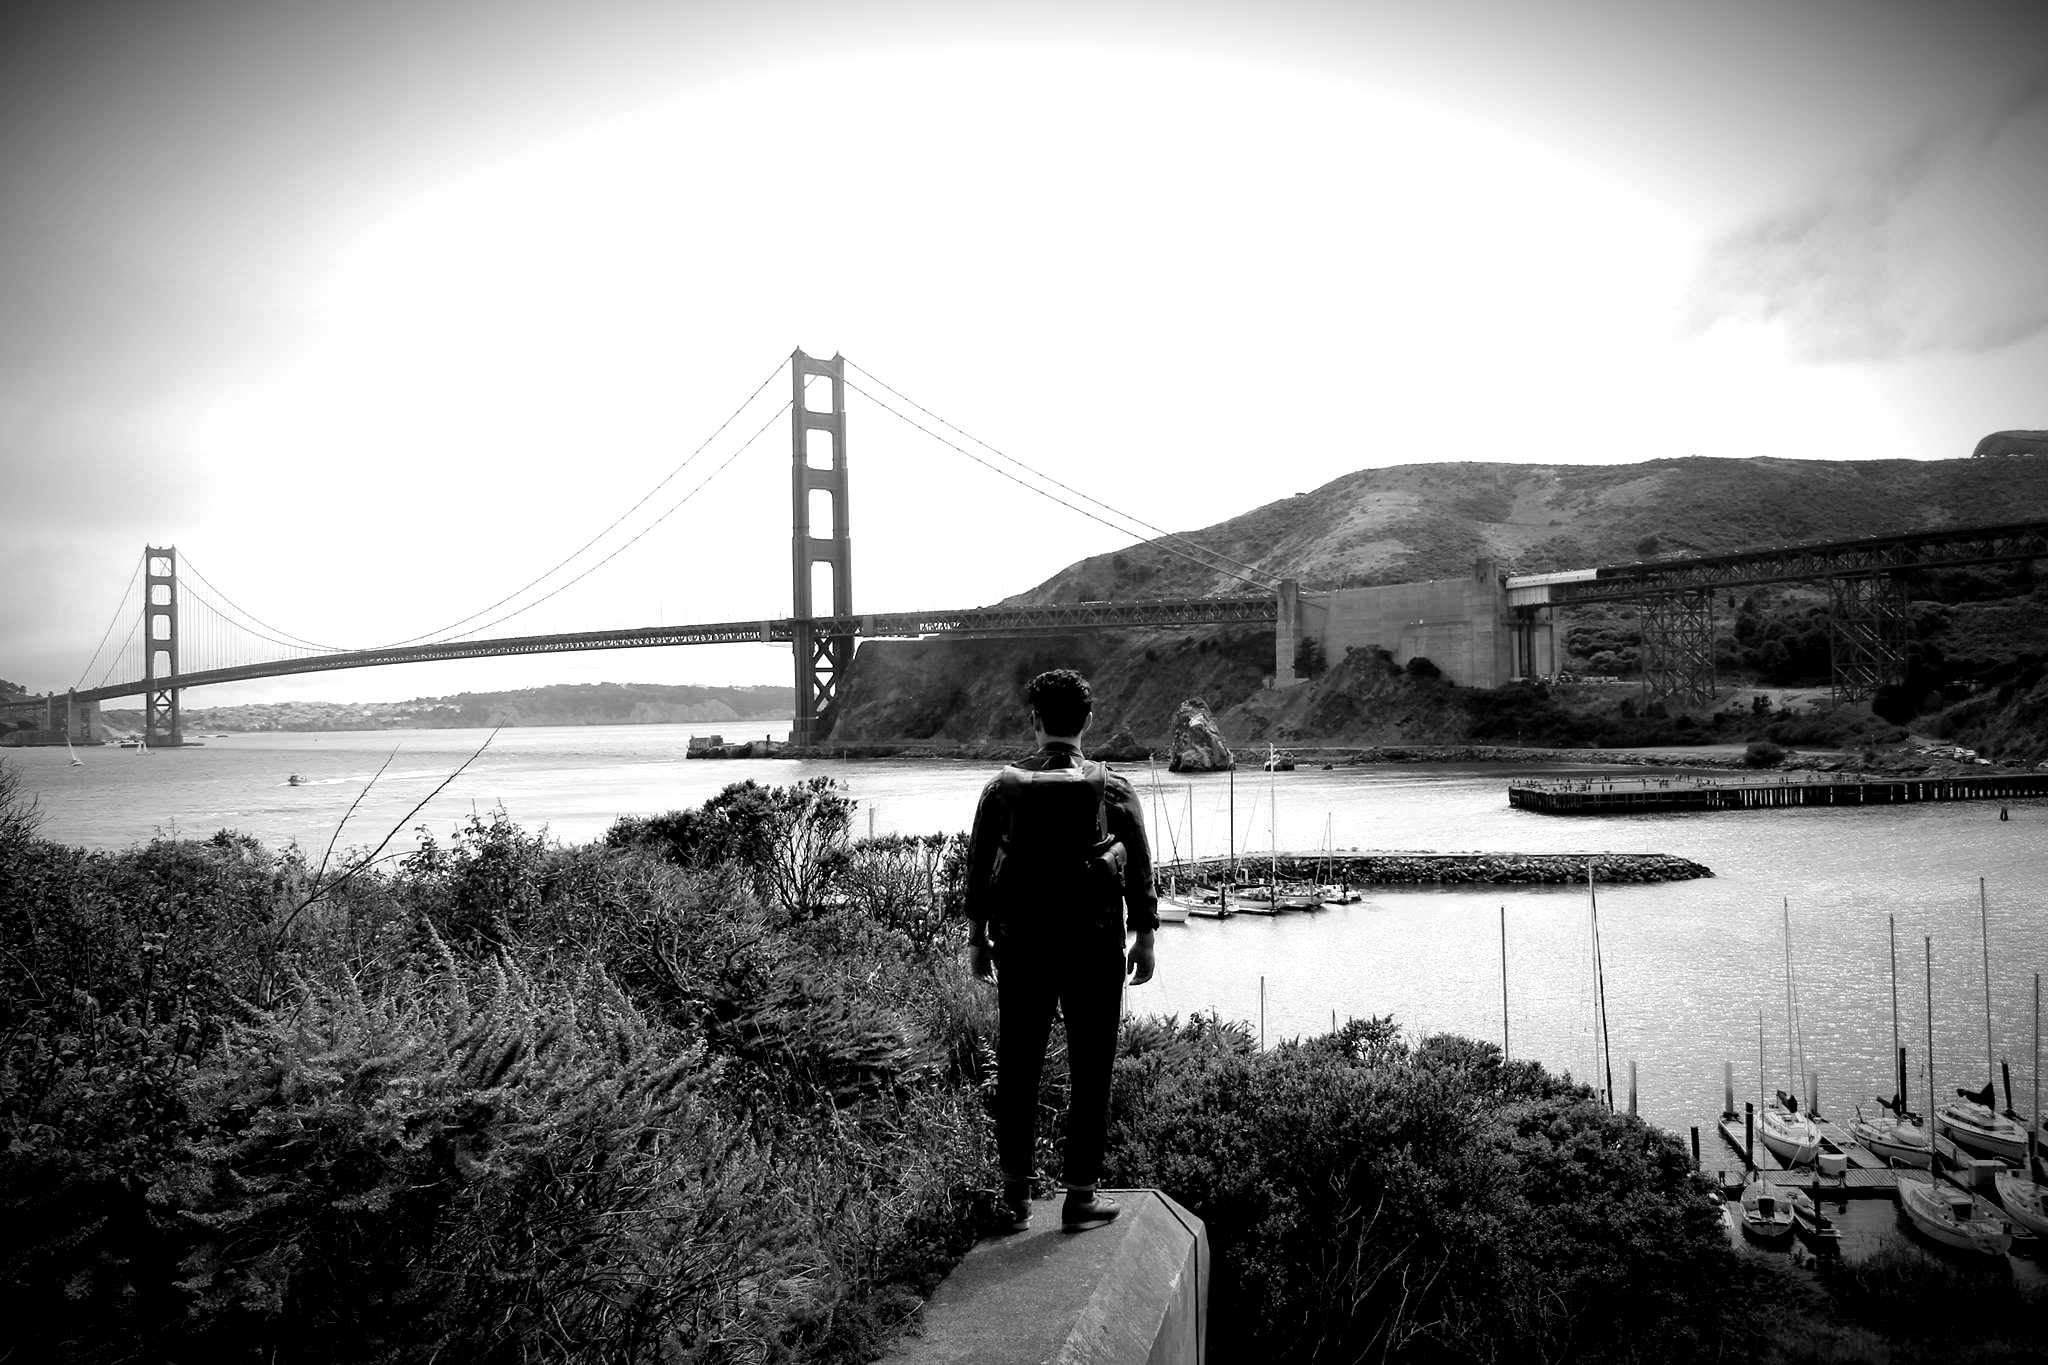
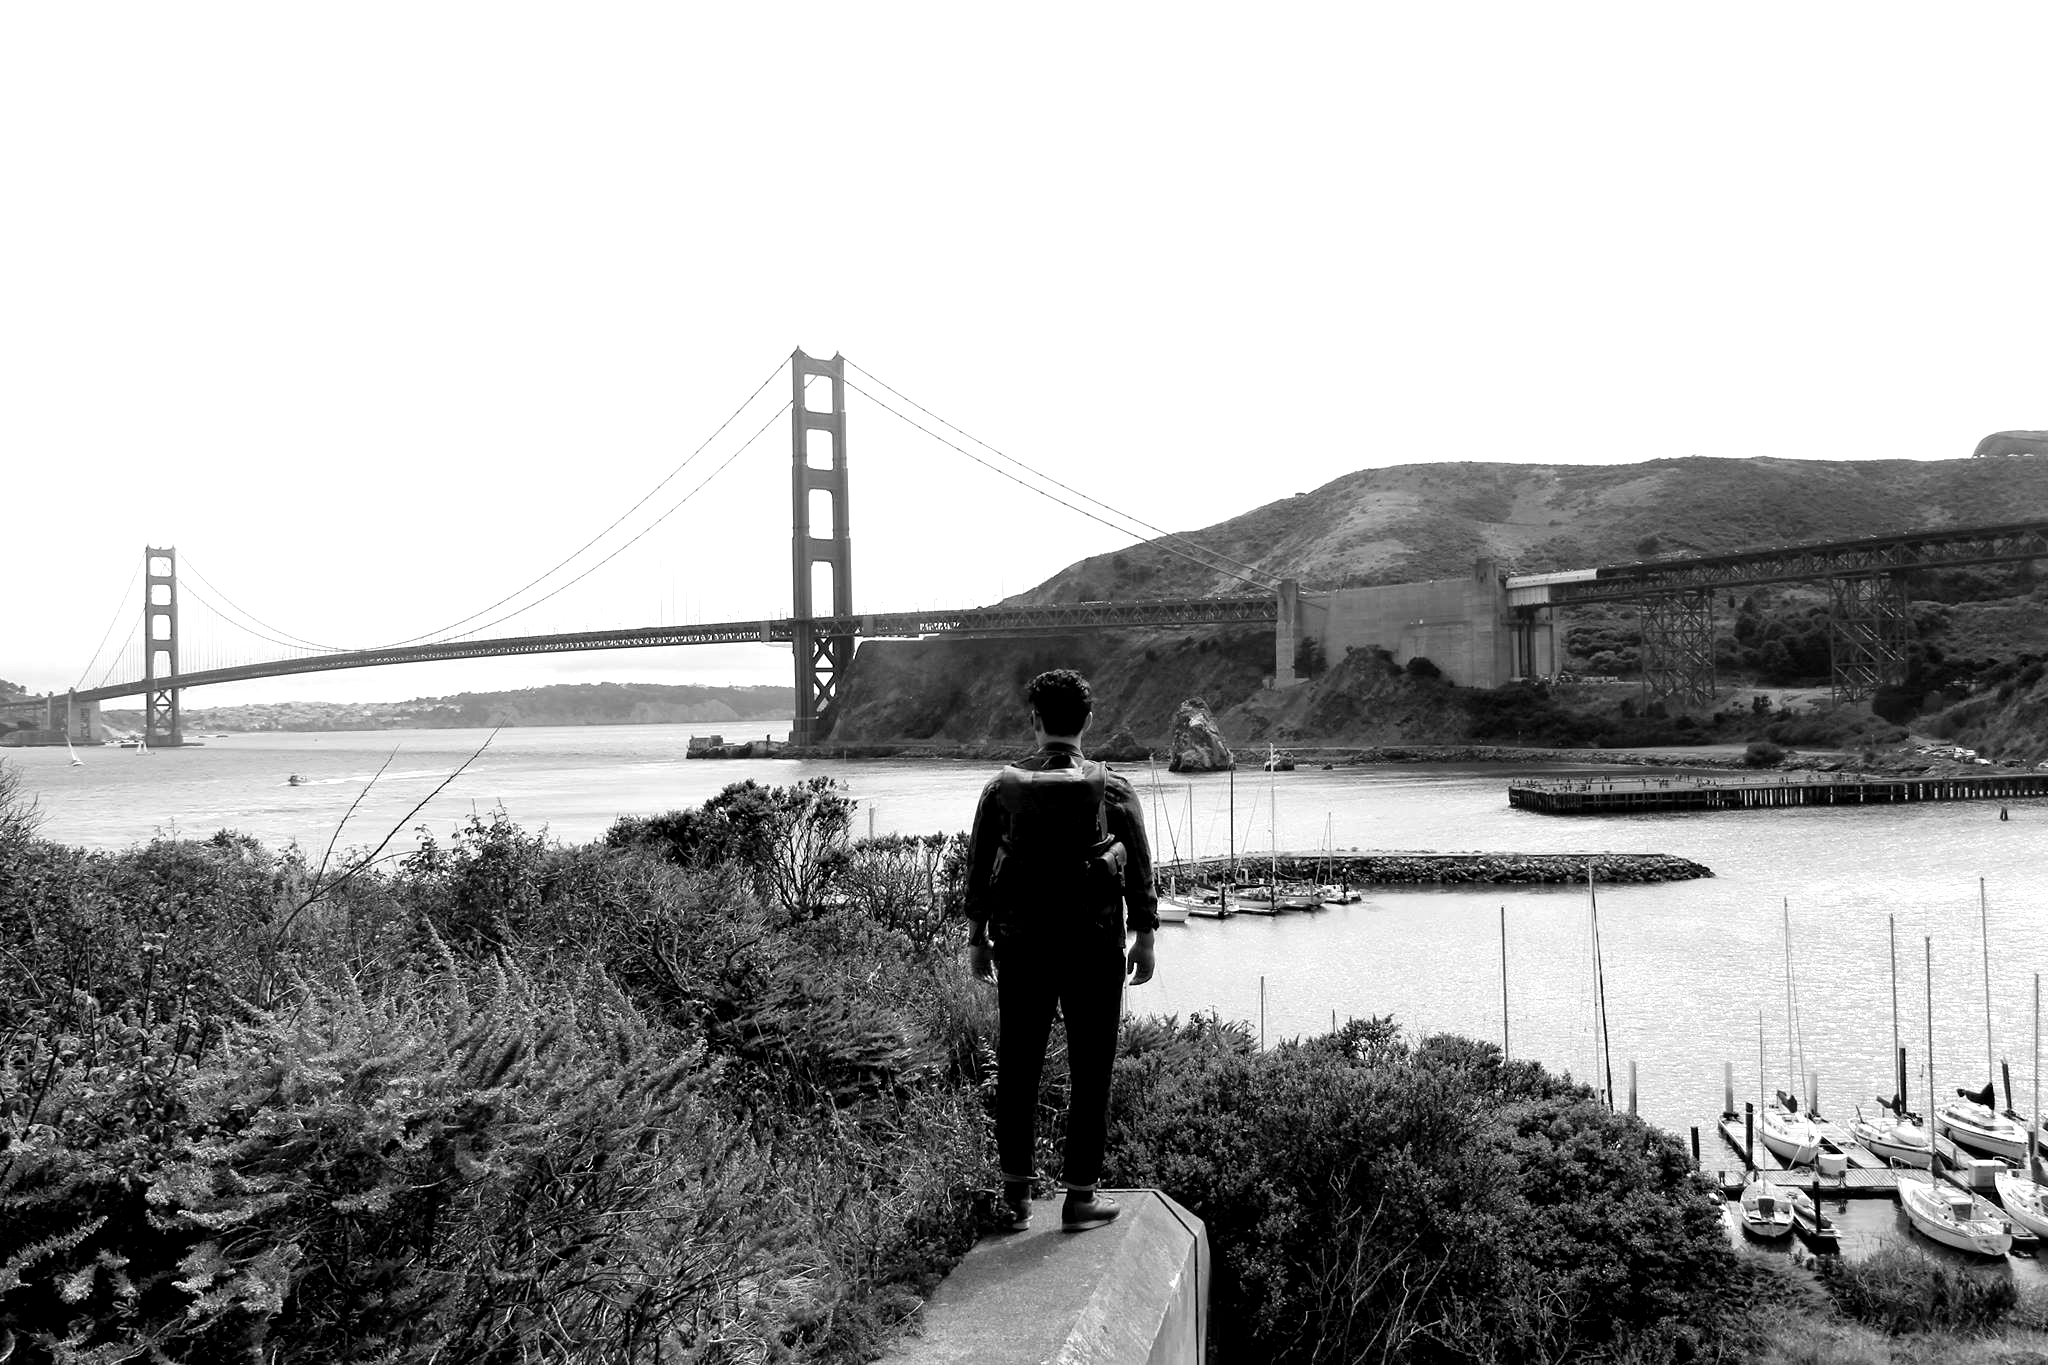
hopefully last push for the day

diff --git a/index.html b/index.html
@@ -48,17 +48,7 @@
 	<!--[if lt IE 9]>
 	<script src="js/respond.min.js"></script>
 	<![endif]-->
-	<style>
-		.slider-text{
-			width:100%
-		}
-		.slider-text-inner{
-			width: 100%;
-		}
-		.desc{
-		margin-bottom: 99%;
-		}
-	</style>
+
 	</head>
 	<body>
 	<div id="colorlib-page">
@@ -68,7 +58,7 @@
 			<div class="text-center">
 				<div class="author-img" style="background-image: url(images/about.jpg);"></div>
 				<h1 id="colorlib-logo"><a href="index.html">Joshua Venegas</a></h1>
-				<span class="position"><a href="#">Software Engineer </a> in San Francisco</span>
+				<span class="position"><a href="#">Software Engineer</a> in San Francisco</span>
 			</div>
 			<nav id="colorlib-main-menu" role="navigation" class="navbar">
 				<div id="navbar" class="collapse">
@@ -79,6 +69,8 @@
 						<li><a href="#" data-nav-section="skills">Skills</a></li>
 						<li><a href="#" data-nav-section="education">Education</a></li>
 						<li><a href="#" data-nav-section="experience">Experience</a></li>
+						<li><a href="#" data-nav-section="work">Work</a></li>
+						<li><a href="#" data-nav-section="blog">Blog</a></li>
 						<li><a href="#" data-nav-section="contact">Contact</a></li>
 					</ul>
 				</div>
@@ -100,14 +92,14 @@
 			<section id="colorlib-hero" class="js-fullheight" data-section="home">
 				<div class="flexslider js-fullheight">
 					<ul class="slides">
-				   	<li style ="background-image: url(images/sfview.jpg) ;">
+				   	<li style="background-image: url(images/sfviewbw.jpg);">
 				   		<div class="overlay"></div>
 				   		<div class="container-fluid">
 				   			<div class="row">
 					   			<div class="col-md-6 col-md-offset-3 col-md-pull-3 col-sm-12 col-xs-12 js-fullheight slider-text">
-					   				<div class="slider-text-inner js-fullheight" >
-					   					<div class="desc ">
-						   					<h1>Hello I'm Joshua Venegas. <br> A Web Developer based in San Fracisco Bay Area.</h1>
+					   				<div class="slider-text-inner js-fullheight">
+					   					<div class="desc">
+						   					<h1>I'm Joshua Venegas. <br>A Full Stack Engineer.</h1>
 												<p><a class="btn btn-danger btn-learn" >Download Resume <i class="icon-download4"></i></a></p>
 											</div>
 					   				</div>
@@ -120,10 +112,10 @@
 				   		<div class="container-fluid">
 				   			<div class="row">
 					   			<div class="col-md-6 col-md-offset-3 col-md-pull-3 col-sm-12 col-xs-12 js-fullheight slider-text">
-					   				<div class="slider-text-inner js-fullheight" >
+					   				<div class="slider-text-inner">
 					   					<div class="desc">
-						   					<h1>I am a <br>Full Stack <br> Software Engineer</h1>
-												<p><a class="btn btn-primary btn-learn">View Portfolio <i class="icon-briefcase3"></i></a></p>
+						   					<h1>Intuative, <br>Responsive, <br> Creative Designs</h1>
+												<p><a class="btn btn-primary btn-learn">View Projects <i class="icon-briefcase3"></i></a></p>
 											</div>
 					   				</div>
 					   			</div>
@@ -141,44 +133,43 @@
 							<div class="row row-bottom-padded-sm animate-box" data-animate-effect="fadeInLeft">
 								<div class="col-md-12">
 									<div class="about-desc">
-										<span class="heading-meta">About Me</span>
+										<span class="heading-meta">About Us</span>
 										<h2 class="colorlib-heading">Who Am I?</h2>
 										<p><strong>Hi, my name is Joshua Venegas</strong> and I am a  full stack web developer. I was born and raised here in Silicon Valley's San Jose, California. The ever-changing world of technology and culture it has created has inspired me to want to build my own apps that will make an impact. I have a burning curiousity in me to search and dig new technolgies that will help me build my personal projects. Along the way I have gained enough skills in coding necessary to call myself a Full Stack Web Developer - open for hire.</p>
 										<p> I strive to make sure my users have a great experience though the apps I create because I want to help create things that make a difference.</p>
 									</div>
 								</div>
 							</div>
-							
+							<div class="row">
+								<div class="col-md-3 animate-box" data-animate-effect="fadeInLeft">
+									<div class="services color-1">
+										<span class="icon2"><i class="icon-bulb"></i></span>
+										<h3>World-Class Web Design for all devices</h3>
+									</div>
+								</div>
 								<div class="col-md-3 animate-box" data-animate-effect="fadeInRight">
 									<div class="services color-2">
 										<span class="icon2"><i class="icon-globe-outline"></i></span>
-										<h3>World-Class Web Design for all devices</h3>
+										<h3>Software tailored to your needs</h3>
 									</div>
 								</div>
 								<div class="col-md-3 animate-box" data-animate-effect="fadeInTop">
 									<div class="services color-3">
 										<span class="icon2"><i class="icon-data"></i></span>
-										<h3>Software tailored to your needs</h3>
+										<h3>Applications built with a personal touch</h3>
 									</div>
 								</div>
 								<div class="col-md-3 animate-box" data-animate-effect="fadeInBottom">
 									<div class="services color-4">
 										<span class="icon2"><i class="icon-phone3"></i></span>
-										<h3>Applications built with a personal touch</h3>
-									</div>
-								</div>
-								<div class="row">
-								<div class="col-md-3 animate-box" data-animate-effect="fadeInLeft">
-									<div class="services color-1">
-										<span class="icon2"><i class="icon-bulb"></i></span>
-										<h3>Prioritizing data security </h3>
+										<h3>Prioritizing data security</h3>
 									</div>
 								</div>
 							</div>
 							<div class="row">
 								<div class="col-md-12 animate-box" data-animate-effect="fadeInLeft">
 									<div class="hire">
-										<h2>I am happy to know you <br>that 30+ projects have been completed sucessfully!</h2>
+										<h2>I am happy to know you <br>that 30+ projects done sucessfully!</h2>
 										<a href="#" class="btn-hire">Hire me</a>
 									</div>
 								</div>
@@ -282,17 +273,17 @@
 							<span class="colorlib-counter-label">Cups of coffee</span>
 						</div>
 						<div class="col-md-3 text-center animate-box">
-							<span class="colorlib-counter js-counter" data-from="0" data-to="35" data-speed="5000" data-refresh-interval="50"></span>
+							<span class="colorlib-counter js-counter" data-from="0" data-to="56" data-speed="5000" data-refresh-interval="50"></span>
 							<span class="colorlib-counter-label">Projects</span>
 						</div>
-						<div class="col-md-3 text-center animate-box">
-							<span class="colorlib-counter js-counter" data-from="0" data-to="3" data-speed="5000" data-refresh-interval="50"></span>
+						<!-- <div class="col-md-3 text-center animate-box">
+							<span class="colorlib-counter js-counter" data-from="0" data-to="30" data-speed="5000" data-refresh-interval="50"></span>
 							<span class="colorlib-counter-label">Clients</span>
 						</div>
 						<div class="col-md-3 text-center animate-box">
-							<span class="colorlib-counter js-counter" data-from="0" data-to="8" data-speed="5000" data-refresh-interval="50"></span>
+							<span class="colorlib-counter js-counter" data-from="0" data-to="10" data-speed="5000" data-refresh-interval="50"></span>
 							<span class="colorlib-counter-label">Partners</span>
-						</div>
+						</div> -->
 					</div>
 				</div>
 			</div>
@@ -375,6 +366,9 @@
 								</div>
 							</div>
 						</div>
+
+
+
 						<div class="col-md-6 animate-box" data-animate-effect="fadeInRight">
 							<div class="progress-wrap">
 								<h3>JavaScript (ES5 & ES6)</h3>
@@ -398,7 +392,9 @@
 								</div>
 							</div>
 						</div>
-						
+
+
+
 					</div>
 				</div>
 			</section>
@@ -418,7 +414,7 @@
 									<div class="panel panel-default">
 									    <div class="panel-heading" role="tab" id="headingOne">
 									        <h4 class="panel-title">
-									            <a data-toggle="collapse" data-parent="#accordion" href="#collapseOne" aria-expanded="true" aria-controls="collapseOne">BACHELOR DEGREE IN HISTORY
+									            <a data-toggle="collapse" data-parent="#accordion" href="#collapseOne" aria-expanded="true" aria-controls="collapseOne">Master Degree Graphic Design
 									            </a>
 									        </h4>
 									    </div>
@@ -438,7 +434,7 @@
 									<div class="panel panel-default">
 									    <div class="panel-heading" role="tab" id="headingTwo">
 									        <h4 class="panel-title">
-									            <a class="collapsed" data-toggle="collapse" data-parent="#accordion" href="#collapseTwo" aria-expanded="false" aria-controls="collapseTwo">FULL STACK WEB DEVELOPER COURSE
+									            <a class="collapsed" data-toggle="collapse" data-parent="#accordion" href="#collapseTwo" aria-expanded="false" aria-controls="collapseTwo">Bachelor Degree of Computer Science
 									            </a>
 									        </h4>
 									    </div>
@@ -453,6 +449,7 @@
 									    </div>
 									</div>
 									
+								</div>
 							</div>
 						</div>
 					</div>
@@ -586,7 +583,7 @@
 						</div>
 						<div class="col-md-6 animate-box" data-animate-effect="fadeInLeft">
 							<div class="project" style="background-image: url(images/img-5.jpg);">
-								<div class="desc" >
+								<div class="desc">
 									<div class="con">
 										<h3><a href="work.html">Work 05</a></h3>
 										<span>Graphic, Logo</span>

diff --git a/css/style.css b/css/style.css
@@ -97,7 +97,6 @@ figure {
     width: 150px;
     height: 150px;
     margin: 0 auto;
-    margin-right: 90px;
     margin-bottom: 30px;
     -webkit-border-radius: 50%;
     -moz-border-radius: 50%;
@@ -274,7 +273,7 @@ figure {
           #colorlib-hero .flexslider .flex-control-nav li a.flex-active {
             cursor: pointer;
             background: transparent;
-            border: 2px solid #2c98f0; }
+            border: 2px solid #f80000; }
     #colorlib-hero .flexslider .flex-direction-nav {
       display: none; }
     #colorlib-hero .flexslider .slider-text {
@@ -293,18 +292,17 @@ figure {
             text-align: center; } }
         #colorlib-hero .flexslider .slider-text > .slider-text-inner h1, #colorlib-hero .flexslider .slider-text > .slider-text-inner h2 {
           margin: 0;
-          padding-bottom: 10px;
-          margin-bottom: 70px;
-          color: rgb(163, 15, 15);
+          padding-bottom: 240px;
+          color: rgb(204, 2, 2);
           font-family: "Playfair Display", Georgia, serif; }
         #colorlib-hero .flexslider .slider-text > .slider-text-inner h1 {
           margin-bottom: 20px;
-          font-size: 40px;
+          font-size: 60px;
           line-height: 1.3;
           font-weight: 700; }
           @media screen and (max-width: 768px) {
             #colorlib-hero .flexslider .slider-text > .slider-text-inner h1 {
-              font-size: 24px; } }
+              font-size: 28px; } }
         #colorlib-hero .flexslider .slider-text > .slider-text-inner h2 {
           font-size: 18px;
           line-height: 1.5;
@@ -312,8 +310,8 @@ figure {
           font-weight: 300;
           font-family: "Quicksand", Arial, sans-serif; }
           #colorlib-hero .flexslider .slider-text > .slider-text-inner h2 a {
-            color: rgba(44, 152, 240, 0.8);
-            border-bottom: 1px solid rgba(44, 152, 240, 0.7); }
+            color: rgba(199, 0, 0, 0.8);
+            border-bottom: 1px solid rgb(0, 225, 255); }
         #colorlib-hero .flexslider .slider-text > .slider-text-inner .heading-section {
           font-size: 50px; }
           @media screen and (max-width: 768px) {
@@ -322,24 +320,25 @@ figure {
         #colorlib-hero .flexslider .slider-text > .slider-text-inner s
 .colorlib-lead {
           font-size: 20px;
+          font-family: 
           color: #fff; }
         #colorlib-hero .flexslider .slider-text > .slider-text-inner p {
           margin-bottom: 0; }
         #colorlib-hero .flexslider .slider-text > .slider-text-inner .btn {
-          font-size: 20px;
+          font-size: 15px;
           text-transform: uppercase;
           letter-spacing: 2px;
-          color: #000;
+          color: rgb(0, 225, 255);
           padding: 10px 15px !important;
           border: none;
-          font-weight: 600; }
+          font-weight: 400; }
           #colorlib-hero .flexslider .slider-text > .slider-text-inner .btn.btn-learn {
-            color: rgb(3, 195, 255);
-            border: 2px solid rgb(0, 195, 255);
+            color: rgb(0, 225, 255);
+            border: 2px solid rgb(0, 225, 255);
             background: transparent !important; }
             #colorlib-hero .flexslider .slider-text > .slider-text-inner .btn.btn-learn:hover {
               background: transparent !important;
-              border: 3px solid rgb(3, 196, 255) !important; }
+              border: 2px solid rgb(55, 0, 255) !important; }
           @media screen and (max-width: 768px) {
             #colorlib-hero .flexslider .slider-text > .slider-text-inner .btn {
               width: 100%; } }
@@ -382,9 +381,8 @@ body.offcanvas {
 .colorlib-about,
 .colorlib-services,
 .colorlib-contact {
-  padding-top: 14em;
+  padding-top: 4em;
   padding-bottom: 9em;
-  max-height: 200px;
   clear: both;
   width: 100%;
   display: block; }
@@ -1020,7 +1018,7 @@ body.offcanvas {
     opacity: 1; }
     .project:hover .desc h3 {
       -webkit-transform: translate3d(0, 0, 0);
-      transform: translate3d(0, 0, 0); }f
+      transform: translate3d(0, 0, 0); }
     .project:hover .desc span {
       -webkit-transform: translate3d(0, 0, 0);
       transform: translate3d(0, 0, 0); }
